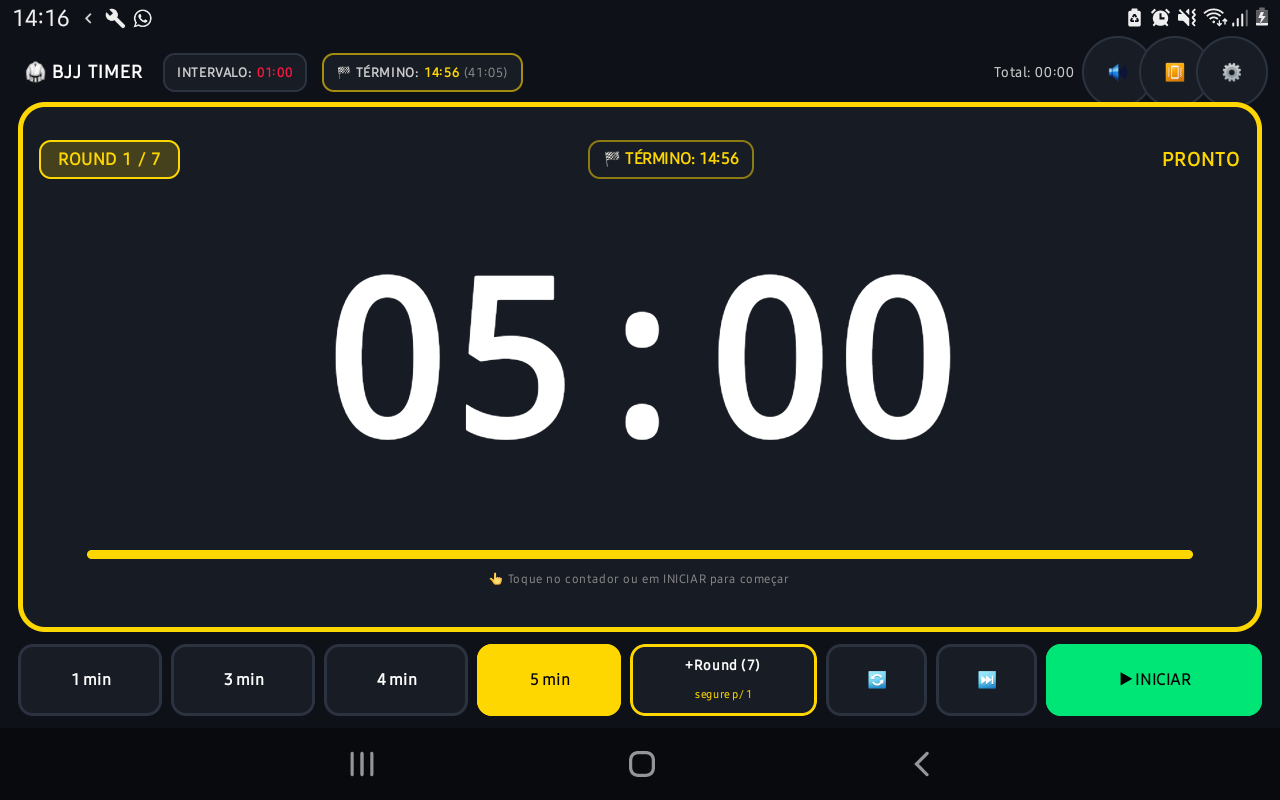
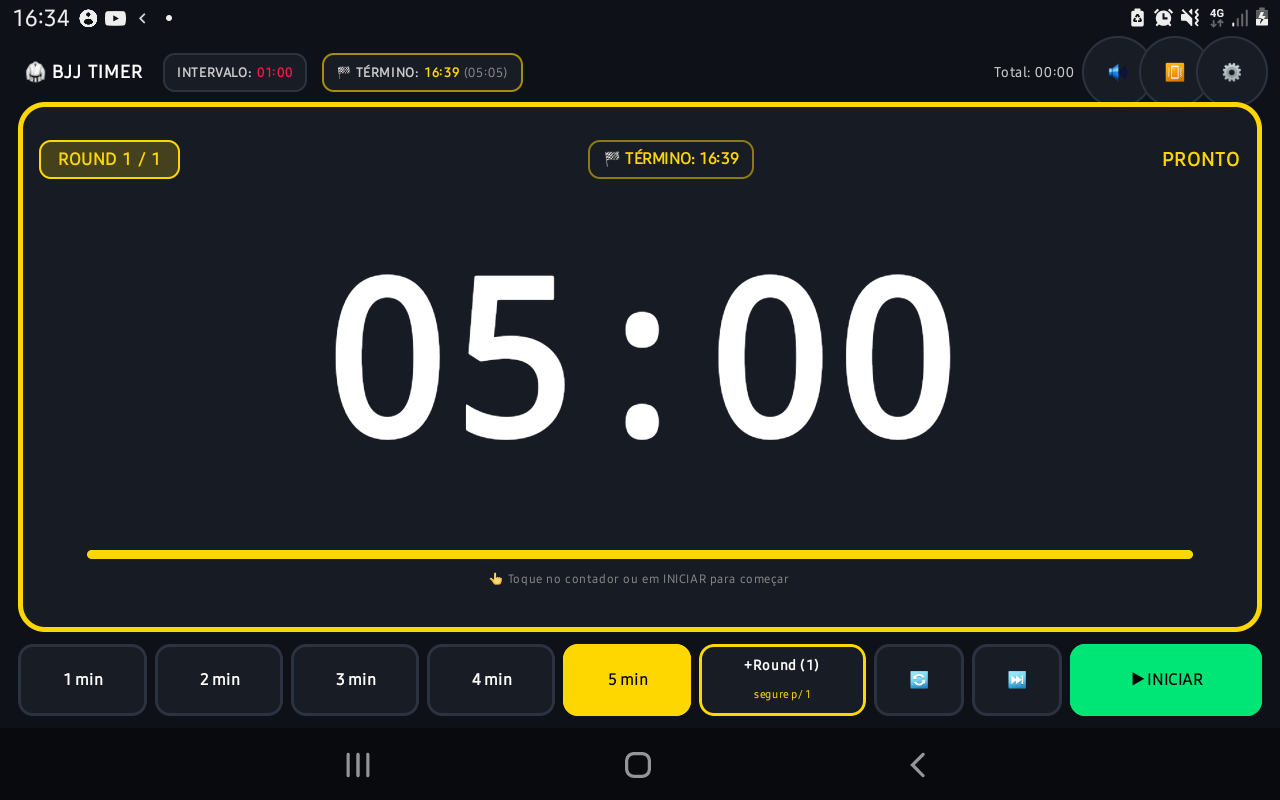
feat: adiciona botao de 2 min e controle granular de alertas sonoros nas configuracoes

diff --git a/app/src/main/java/com/example/bjjtimer/ui/TimerScreen.kt b/app/src/main/java/com/example/bjjtimer/ui/TimerScreen.kt
@@ -11,6 +11,8 @@ import androidx.compose.foundation.background
 import androidx.compose.foundation.border
 import androidx.compose.foundation.clickable
 import androidx.compose.foundation.combinedClickable
+import androidx.compose.foundation.rememberScrollState
+import androidx.compose.foundation.verticalScroll
 import androidx.compose.foundation.gestures.detectTapGestures
 import androidx.compose.ui.input.pointer.pointerInput
 import androidx.compose.foundation.layout.Arrangement
@@ -180,7 +182,10 @@ fun TimerScreen(
             state = state,
             onDismiss = { showSettingsSheet = false },
             onSetRestDuration = { viewModel.setRestDuration(it) },
-            onAdjustRest = { viewModel.adjustRestDuration(it) }
+            onAdjustRest = { viewModel.adjustRestDuration(it) },
+            onToggleStartSound = { viewModel.toggleStartSound() },
+            onToggleCountdownSound = { viewModel.toggleCountdownSound() },
+            onToggleIntervalSound = { viewModel.toggleIntervalSound() }
         )
     }
 }
@@ -618,11 +623,11 @@ private fun StoppedLandscapeControls(
         modifier = Modifier
             .fillMaxWidth()
             .padding(vertical = 2.dp),
-        horizontalArrangement = Arrangement.spacedBy(6.dp),
+        horizontalArrangement = Arrangement.spacedBy(5.dp),
         verticalAlignment = Alignment.CenterVertically
     ) {
-        // 1m, 3m, 4m, 5m
-        val times = listOf(1, 3, 4, 5)
+        // 1m, 2m, 3m, 4m, 5m
+        val times = TimerDefaults.availableMinutes
         times.forEach { mins ->
             val isSelected = state.selectedMinutes == mins && state.phase == TimerPhase.IDLE
             LandscapeButton(
@@ -754,7 +759,10 @@ private fun SettingsBottomSheet(
     state: TimerUiState,
     onDismiss: () -> Unit,
     onSetRestDuration: (Int) -> Unit,
-    onAdjustRest: (Int) -> Unit
+    onAdjustRest: (Int) -> Unit,
+    onToggleStartSound: () -> Unit,
+    onToggleCountdownSound: () -> Unit,
+    onToggleIntervalSound: () -> Unit
 ) {
     val sheetState = rememberModalBottomSheetState()
 
@@ -767,7 +775,8 @@ private fun SettingsBottomSheet(
         Column(
             modifier = Modifier
                 .fillMaxWidth()
-                .padding(20.dp)
+                .verticalScroll(rememberScrollState())
+                .padding(horizontal = 24.dp, vertical = 16.dp)
         ) {
             Text(
                 text = "⏱ Tempo de Intervalo entre Rounds",
@@ -781,7 +790,7 @@ private fun SettingsBottomSheet(
                 color = Color.LightGray
             )
 
-            Spacer(modifier = Modifier.height(14.dp))
+            Spacer(modifier = Modifier.height(12.dp))
 
             LazyRow(
                 modifier = Modifier.fillMaxWidth(),
@@ -808,7 +817,7 @@ private fun SettingsBottomSheet(
                 }
             }
 
-            Spacer(modifier = Modifier.height(18.dp))
+            Spacer(modifier = Modifier.height(14.dp))
 
             Row(
                 modifier = Modifier.fillMaxWidth(),
@@ -817,7 +826,7 @@ private fun SettingsBottomSheet(
             ) {
                 Text(
                     text = "Ajuste Fino de Intervalo",
-                    fontSize = 15.sp,
+                    fontSize = 14.sp,
                     fontWeight = FontWeight.Medium
                 )
 
@@ -855,6 +864,52 @@ private fun SettingsBottomSheet(
                 }
             }
 
+            Spacer(modifier = Modifier.height(18.dp))
+            androidx.compose.material3.HorizontalDivider(color = CardBorder, thickness = 1.dp)
+            Spacer(modifier = Modifier.height(16.dp))
+
+            Text(
+                text = "🔊 Alertas Sonoros Específicos",
+                fontSize = 18.sp,
+                fontWeight = FontWeight.Bold,
+                color = BeltGold
+            )
+            Text(
+                text = "Ative ou silencie os alertas sonoros em cada momento do rola",
+                fontSize = 13.sp,
+                color = Color.LightGray
+            )
+
+            Spacer(modifier = Modifier.height(12.dp))
+
+            // 1. Início e Preparação
+            SoundSettingRow(
+                title = "Sons de Início e Preparação",
+                subtitle = "Sino duplo de combate (Ding-Ding) e beeps de preparação (3, 2, 1)",
+                isEnabled = state.settings.startSoundEnabled,
+                onToggle = onToggleStartSound
+            )
+
+            Spacer(modifier = Modifier.height(8.dp))
+
+            // 2. Contagem Regressiva Final (10s)
+            SoundSettingRow(
+                title = "Contagem Regressiva Final (10s)",
+                subtitle = "Batida de madeira (Wood-Clap) aos 10s e bips a cada segundo (9 até 1)",
+                isEnabled = state.settings.countdownSoundEnabled,
+                onToggle = onToggleCountdownSound
+            )
+
+            Spacer(modifier = Modifier.height(8.dp))
+
+            // 3. Sons de Intervalo e Fim do Round
+            SoundSettingRow(
+                title = "Sons de Intervalo e Fim do Round",
+                subtitle = "Buzina de ginásio (Buzzer) ao encerrar o round e aviso de descanso",
+                isEnabled = state.settings.intervalSoundEnabled,
+                onToggle = onToggleIntervalSound
+            )
+
             Spacer(modifier = Modifier.height(20.dp))
 
             Button(
@@ -863,10 +918,59 @@ private fun SettingsBottomSheet(
                 colors = ButtonDefaults.buttonColors(containerColor = BeltGold, contentColor = Color.Black),
                 shape = RoundedCornerShape(12.dp)
             ) {
-                Text(text = "CONFIRMAR INTERVALO", fontWeight = FontWeight.Bold)
+                Text(text = "CONCLUIR", fontWeight = FontWeight.Bold)
             }
 
-            Spacer(modifier = Modifier.height(8.dp))
+            Spacer(modifier = Modifier.height(12.dp))
+        }
+    }
+}
+
+@Composable
+private fun SoundSettingRow(
+    title: String,
+    subtitle: String,
+    isEnabled: Boolean,
+    onToggle: () -> Unit
+) {
+    Surface(
+        shape = RoundedCornerShape(12.dp),
+        color = DarkBackground,
+        border = androidx.compose.foundation.BorderStroke(1.dp, CardBorder),
+        modifier = Modifier.fillMaxWidth()
+    ) {
+        Row(
+            modifier = Modifier
+                .fillMaxWidth()
+                .padding(horizontal = 14.dp, vertical = 10.dp),
+            horizontalArrangement = Arrangement.SpaceBetween,
+            verticalAlignment = Alignment.CenterVertically
+        ) {
+            Column(modifier = Modifier.weight(1f).padding(end = 12.dp)) {
+                Text(
+                    text = title,
+                    fontSize = 14.sp,
+                    fontWeight = FontWeight.Bold,
+                    color = Color.White
+                )
+                Text(
+                    text = subtitle,
+                    fontSize = 11.sp,
+                    color = Color.Gray,
+                    lineHeight = 14.sp
+                )
+            }
+
+            androidx.compose.material3.Switch(
+                checked = isEnabled,
+                onCheckedChange = { onToggle() },
+                colors = androidx.compose.material3.SwitchDefaults.colors(
+                    checkedThumbColor = Color.Black,
+                    checkedTrackColor = BeltGold,
+                    uncheckedThumbColor = Color.LightGray,
+                    uncheckedTrackColor = CardBackground
+                )
+            )
         }
     }
 }

diff --git a/app/src/main/java/com/example/bjjtimer/ui/TimerViewModel.kt b/app/src/main/java/com/example/bjjtimer/ui/TimerViewModel.kt
@@ -162,7 +162,7 @@ class TimerViewModel @JvmOverloads constructor(
                         totalSecondsInPhase = prepSec
                     )
                 }
-                if (state.settings.soundEnabled) {
+                if (state.settings.soundEnabled && state.settings.startSoundEnabled) {
                     soundAlertManager.playPrepBeep()
                 }
             } else {
@@ -253,6 +253,27 @@ class TimerViewModel @JvmOverloads constructor(
         }
     }
 
+    fun toggleStartSound() {
+        updateUiState {
+            val current = it.settings.startSoundEnabled
+            it.copy(settings = it.settings.copy(startSoundEnabled = !current))
+        }
+    }
+
+    fun toggleCountdownSound() {
+        updateUiState {
+            val current = it.settings.countdownSoundEnabled
+            it.copy(settings = it.settings.copy(countdownSoundEnabled = !current))
+        }
+    }
+
+    fun toggleIntervalSound() {
+        updateUiState {
+            val current = it.settings.intervalSoundEnabled
+            it.copy(settings = it.settings.copy(intervalSoundEnabled = !current))
+        }
+    }
+
     // ==========================================
     // TRANSIÇÕES DE FASE
     // ==========================================
@@ -270,7 +291,7 @@ class TimerViewModel @JvmOverloads constructor(
             )
         }
 
-        if (settings.soundEnabled) {
+        if (settings.soundEnabled && settings.startSoundEnabled) {
             soundAlertManager.playFightStart()
         }
 
@@ -299,7 +320,7 @@ class TimerViewModel @JvmOverloads constructor(
             )
         }
 
-        if (settings.soundEnabled) {
+        if (settings.soundEnabled && settings.intervalSoundEnabled) {
             soundAlertManager.playRoundEnd()
         }
 
@@ -346,17 +367,21 @@ class TimerViewModel @JvmOverloads constructor(
                     if (state.phase == TimerPhase.FIGHT) {
                         if (newRemaining == state.settings.warningSec) {
                             // Alerta principal dos 10 segundos finais (Wood-Clap duplo de tatame + vibração)
-                            if (state.settings.soundEnabled) {
+                            if (state.settings.soundEnabled && state.settings.countdownSoundEnabled) {
                                 soundAlertManager.playTenSecondsWarning()
                             }
                         } else if (newRemaining in 1 until state.settings.warningSec) {
                             // Bips sonoros de contagem regressiva a cada segundo (9 até 1)
-                            if (state.settings.soundEnabled) {
+                            if (state.settings.soundEnabled && state.settings.countdownSoundEnabled) {
                                 soundAlertManager.playCountdownTick(newRemaining)
                             }
                         }
-                    } else if ((state.phase == TimerPhase.PREPARATION || state.phase == TimerPhase.REST) && newRemaining in 1..3) {
-                        if (state.settings.soundEnabled) {
+                    } else if (state.phase == TimerPhase.PREPARATION && newRemaining in 1..3) {
+                        if (state.settings.soundEnabled && state.settings.startSoundEnabled) {
+                            soundAlertManager.playPrepBeep()
+                        }
+                    } else if (state.phase == TimerPhase.REST && newRemaining in 1..3) {
+                        if (state.settings.soundEnabled && state.settings.intervalSoundEnabled) {
                             soundAlertManager.playPrepBeep()
                         }
                     }

diff --git a/app/src/test/java/com/example/bjjtimer/TimerViewModelTest.kt b/app/src/test/java/com/example/bjjtimer/TimerViewModelTest.kt
@@ -41,6 +41,10 @@ class TimerViewModelTest {
         assertEquals(60, viewModel.uiState.value.remainingSeconds)
         assertEquals(1, viewModel.uiState.value.selectedMinutes)
 
+        viewModel.setFightMinutes(2)
+        assertEquals(120, viewModel.uiState.value.remainingSeconds)
+        assertEquals(2, viewModel.uiState.value.selectedMinutes)
+
         viewModel.setFightMinutes(3)
         assertEquals(180, viewModel.uiState.value.remainingSeconds)
         assertEquals(3, viewModel.uiState.value.selectedMinutes)
@@ -84,6 +88,19 @@ class TimerViewModelTest {
         assertTrue(viewModel.uiState.value.settings.vibrationEnabled)
         viewModel.toggleVibration()
         assertFalse(viewModel.uiState.value.settings.vibrationEnabled)
+
+        // Toggles de sons específicos
+        assertTrue(viewModel.uiState.value.settings.startSoundEnabled)
+        viewModel.toggleStartSound()
+        assertFalse(viewModel.uiState.value.settings.startSoundEnabled)
+
+        assertTrue(viewModel.uiState.value.settings.countdownSoundEnabled)
+        viewModel.toggleCountdownSound()
+        assertFalse(viewModel.uiState.value.settings.countdownSoundEnabled)
+
+        assertTrue(viewModel.uiState.value.settings.intervalSoundEnabled)
+        viewModel.toggleIntervalSound()
+        assertFalse(viewModel.uiState.value.settings.intervalSoundEnabled)
     }
 
     @Test

diff --git a/app/src/main/java/com/example/bjjtimer/model/TimerModel.kt b/app/src/main/java/com/example/bjjtimer/model/TimerModel.kt
@@ -15,7 +15,10 @@ data class TimerSettings(
     val preparationSec: Int = 5,
     val warningSec: Int = 10,        // aviso aos 10s finais
     val soundEnabled: Boolean = true,
-    val vibrationEnabled: Boolean = true
+    val vibrationEnabled: Boolean = true,
+    val startSoundEnabled: Boolean = true,
+    val countdownSoundEnabled: Boolean = true,
+    val intervalSoundEnabled: Boolean = true
 )
 
 data class TimerUiState(
@@ -35,6 +38,6 @@ data class TimerUiState(
 )
 
 object TimerDefaults {
-    val availableMinutes = listOf(1, 3, 4, 5)
+    val availableMinutes = listOf(1, 2, 3, 4, 5)
     val availableIntervalsSec = listOf(15, 30, 45, 60, 90, 120, 180)
 }

diff --git a/README.md b/README.md
@@ -11,13 +11,17 @@ Um aplicativo Android moderno, robusto e ultra-visível, projetado especificamen
   <b>Ícone Oficial BJJ Timer</b>
 </p>
 
-| Modo Padrão (Ajustes Rápidos e Rounds) | Modo Full Screen (Combate em Andamento) |
+| Modo Padrão (Presets 1 a 5 min e Rounds) | Modo Full Screen (Combate em Andamento) |
 |:---:|:---:|
 | <img src="screenshots/01_modo_padrao.png" width="480" alt="Modo Padrão" /> | <img src="screenshots/02_modo_combate.png" width="480" alt="Modo Combate Full Screen" /> |
 
-| Modo Preparação (Âmbar com Beeps) | Configuração de Intervalo entre Rounds |
+| Modo Preparação (Âmbar com Beeps) | Configuração de Intervalo e Presets |
 |:---:|:---:|
 | <img src="screenshots/03_modo_preparacao.png" width="480" alt="Modo Preparação" /> | <img src="screenshots/04_ajuste_intervalo.png" width="480" alt="Ajuste de Intervalo" /> |
+
+| Alertas Sonoros Customizáveis (⚙) |
+|:---:|
+| <img src="screenshots/06_config_sons.png" width="480" alt="Alertas Sonoros Específicos" /> |
 
 ---
 
@@ -31,7 +35,7 @@ O **BJJ Timer** foi desenvolvido pensando na dinâmica real do tatame: visualiza
    - Interface travada no modo panorâmico, ideal para apoiar o celular ou tablet no chão do tatame, banco ou suporte.
 
 2. **⚡ Botões de Tempo de Rápido Acesso**:
-   - Botões pré-definidos de **`1 min`**, **`3 min`**, **`4 min`** e **`5 min`** para ajustar o tempo de rola com apenas um toque.
+   - Botões pré-definidos de **`1 min`**, **`2 min`**, **`3 min`**, **`4 min`** e **`5 min`** para ajustar o tempo de rola com apenas um toque.
 
 3. **🔁 Controle Inteligente de Rounds / Repetições**:
    - **Início no 1**: Por padrão, o treino sempre começa configurado no Round 1 (`ROUND 1 / 1`).
@@ -62,8 +66,14 @@ O **BJJ Timer** foi desenvolvido pensando na dinâmica real do tatame: visualiza
    - **Contagem Regressiva Final (9 a 1)**: Bips a cada segundo da contagem regressiva, com tom agudo (1200Hz) e vibração nos 3 segundos finais.
    - *Geração 100% nativa via PCM 16-bit com `AudioTrack`, funcionando totalmente offline sem depender de arquivos de áudio externos.*
 
-9. **💡 Tela Sempre Ligada**:
-   - Configurado com `FLAG_KEEP_SCREEN_ON` para garantir que o display nunca desligue ou bloqueie durante o treino.
+9. **🎛 Controle Granular de Sons (⚙)**:
+   - Opção no menu de configurações para ativar ou desativar de forma independente:
+     - **Sons de Início e Preparação**: Sino duplo de combate e beeps de preparação 3-2-1.
+     - **Contagem Regressiva Final**: Batida de madeira aos 10s e bips de contagem 9 a 1.
+     - **Sons de Intervalo e Fim do Round**: Buzina de encerramento e aviso de descanso.
+
+10. **💡 Tela Sempre Ligada**:
+    - Configurado com `FLAG_KEEP_SCREEN_ON` para garantir que o display nunca desligue ou bloqueie durante o treino.
 
 ---
 
